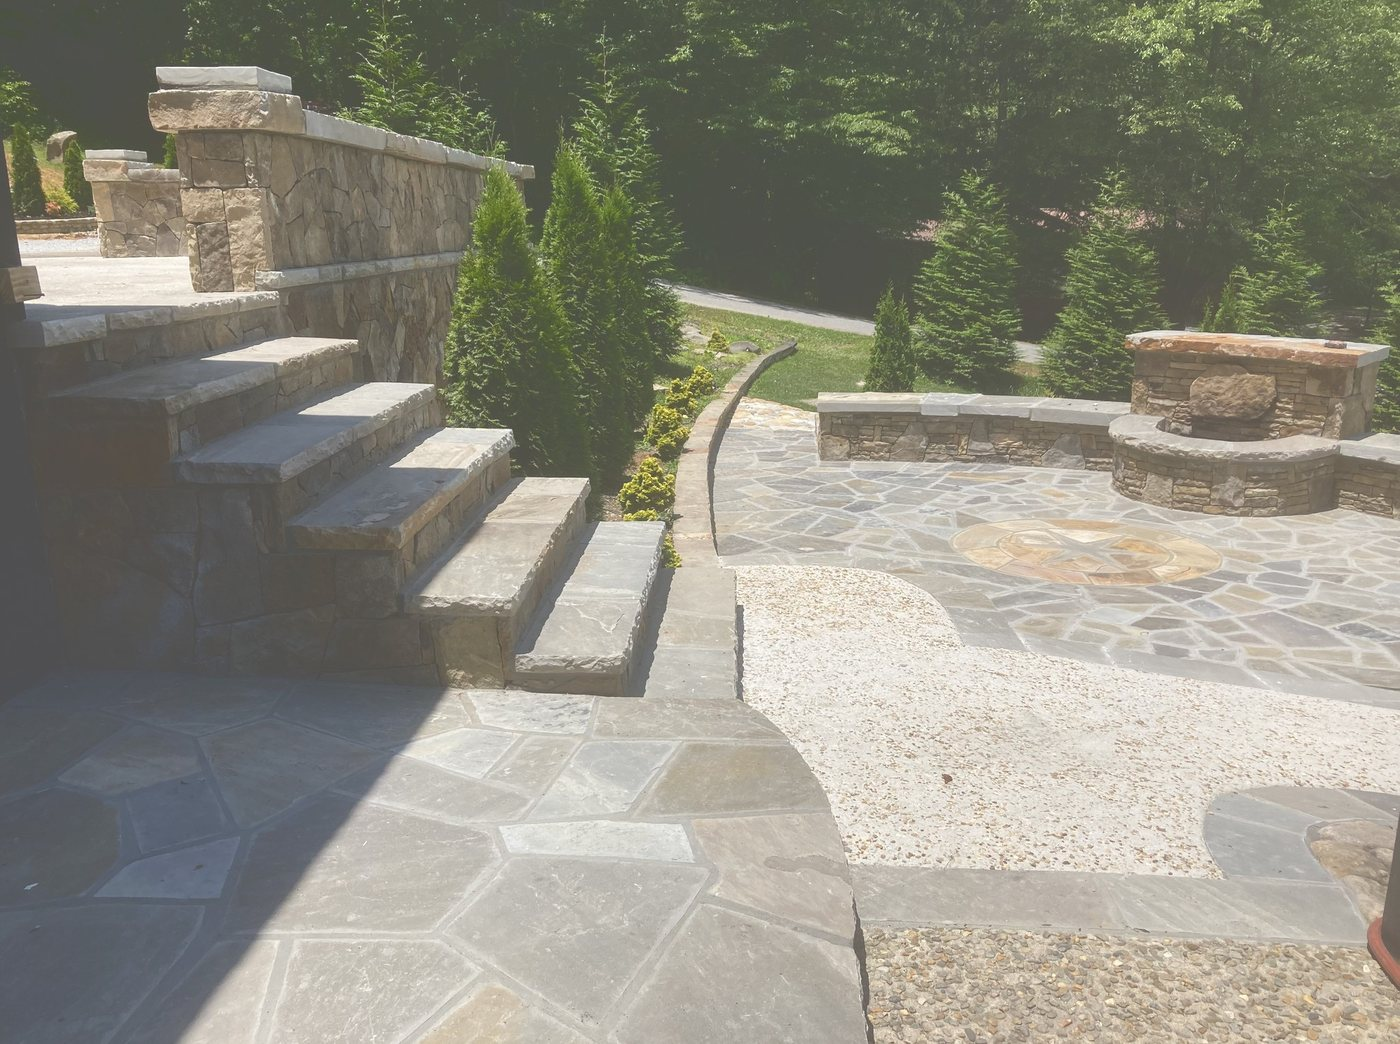
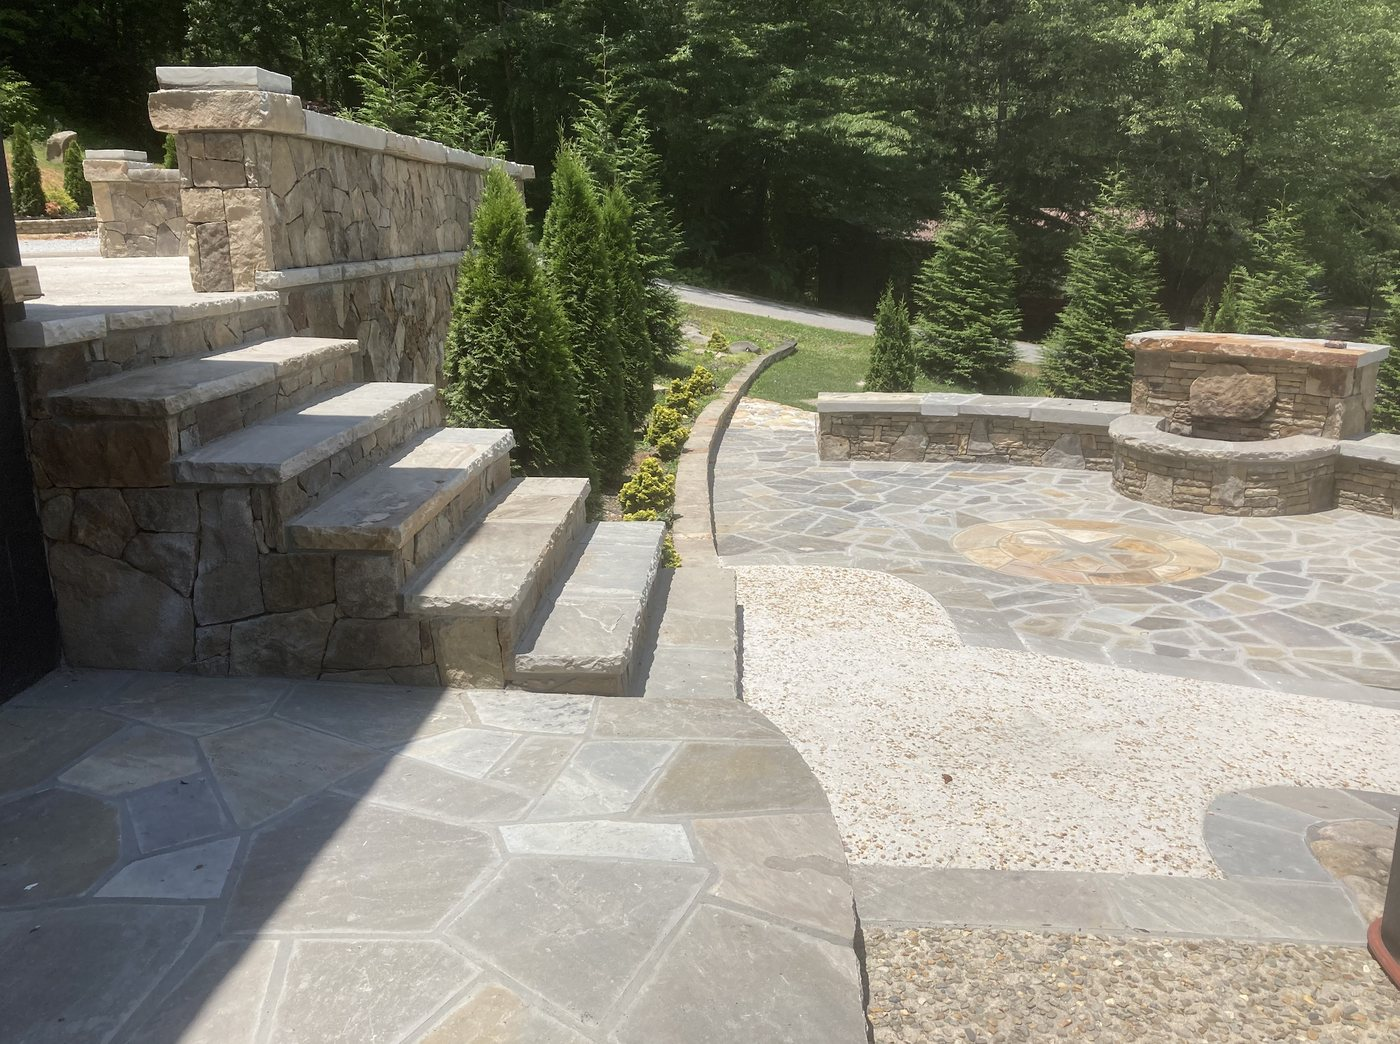
Sync manscaped-outdoors: real project photos on all service sections

Changed region(s): [[0.0, 0.0, 1.0, 0.8276]]

diff --git a/manscaped-outdoors/services.html b/manscaped-outdoors/services.html
@@ -75,7 +75,7 @@
 
         <article class="service-detail" id="landscape-design-installation">
           <div class="service-detail__media">
-            <img src="assets/services/landscape-design.jpg" alt="Landscape design and planting installation by Manscaped Outdoors" loading="lazy" />
+            <img src="assets/services/landscape-design-planting.jpg" alt="Planting beds with flowering perennials and natural stone edging designed by Manscaped Outdoors" loading="lazy" />
           </div>
           <div class="service-detail__body">
             <span class="service-detail__num">01 &#183; Landscape Design &amp; Installation</span>
@@ -98,7 +98,7 @@
 
         <article class="service-detail" id="patios-hardscapes-outdoor-living">
           <div class="service-detail__media">
-            <img src="assets/services/hardscape.jpg" alt="Stone patio and outdoor living space by Manscaped Outdoors" loading="lazy" />
+            <img src="assets/services/patios-outdoor-living.jpg" alt="Flagstone patio with a stone fire feature and curved seat wall built by Manscaped Outdoors" loading="lazy" />
           </div>
           <div class="service-detail__body">
             <span class="service-detail__num">02 &#183; Patios, Hardscapes &amp; Outdoor Living</span>
@@ -143,7 +143,7 @@
 
         <article class="service-detail" id="drainage-grading-erosion-control">
           <div class="service-detail__media">
-            <img src="assets/services/rock-features.jpg" alt="Dry creek bed and drainage stonework by Manscaped Outdoors" loading="lazy" />
+            <img src="assets/services/drainage-grading.jpg" alt="Grading and drainage work with a stacked stone retaining wall in progress by Manscaped Outdoors" loading="lazy" />
           </div>
           <div class="service-detail__body">
             <span class="service-detail__num">04 &#183; Drainage, Grading &amp; Erosion Control</span>
@@ -189,7 +189,7 @@
 
         <article class="service-detail" id="full-property-transformations">
           <div class="service-detail__media">
-            <img src="assets/before-after/ba2-after.jpg" alt="Full property transformation with stonework and terracing by Manscaped Outdoors" loading="lazy" />
+            <img src="assets/services/full-transformation.jpg" alt="Full property transformation with a paver patio, putting green, and boulder wall by Manscaped Outdoors" loading="lazy" />
           </div>
           <div class="service-detail__body">
             <span class="service-detail__num">06 &#183; Full Property Transformations</span>